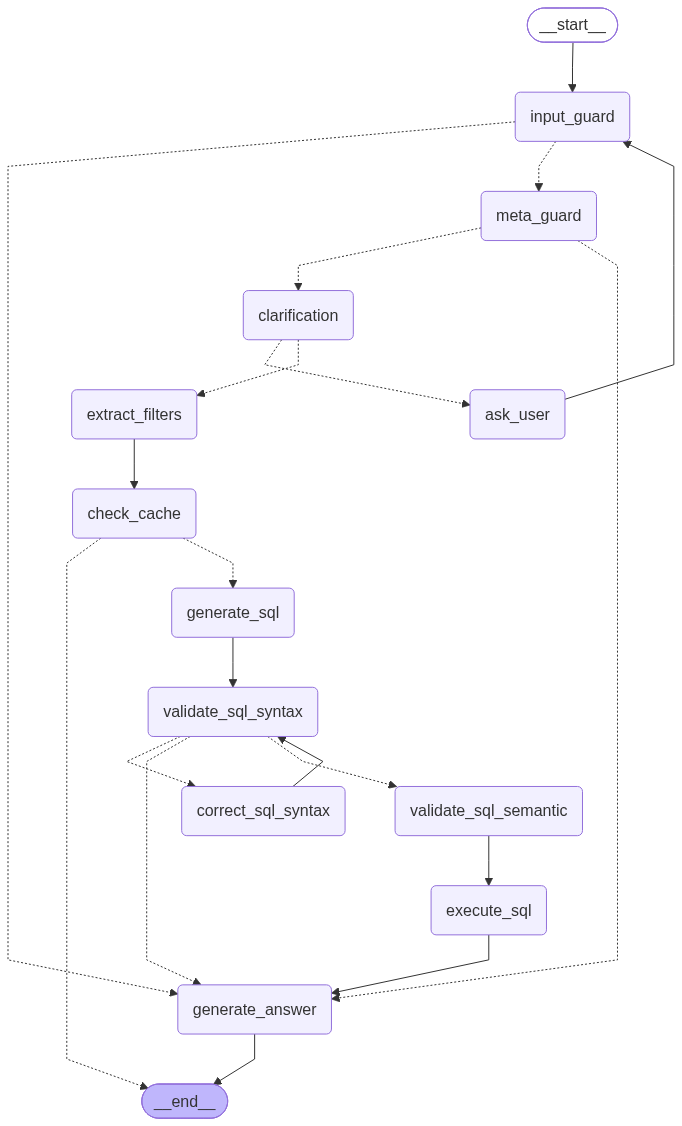
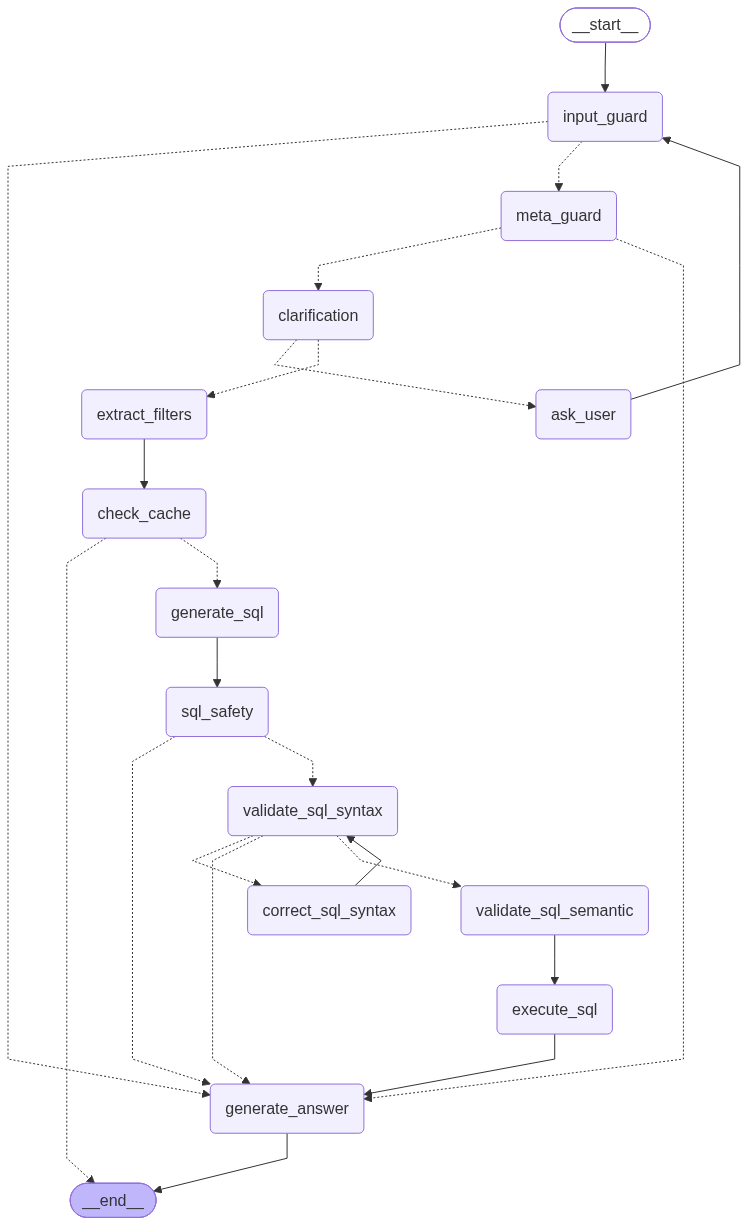
Sql Security using sqlglot

diff --git a/app/guardrails/sql_safety.py b/app/guardrails/sql_safety.py
@@ -1,0 +1,88 @@
+
+import sqlglot
+from sqlglot import exp
+
+
+FORBIDDEN_NODE_TYPES = {
+    "insert",
+    "update",
+    "delete",
+    "merge",
+    "create",
+    "drop",
+    "alter",
+    "command",
+    "copy",
+    "truncate",
+    "truncatetable",
+    "grant",
+    "revoke",
+    "set",
+    "use",
+    "transaction",
+    "commit",
+    "rollback",
+    "into",
+    "lock",
+    "call",
+    "execute",
+    "vacuum",
+    "attach",
+    "detach",
+    "pragma",
+    "analyze",
+}
+
+
+def validate_sql_safety(sql: str) -> tuple[bool, str]:
+    """
+    Check whether generated SQL follows the project's
+    basic read-only SQL rules.
+
+    Returns:
+        (True, "") if the query passes these checks.
+        (False, reason) if the query is rejected.
+    """
+
+    # 1. Reject empty SQL.
+    if not sql or not sql.strip():
+        return False, "SQL query is empty."
+
+    # 2. Parse SQL using PostgreSQL syntax.
+    try:
+        statements = [
+            statement
+            for statement in sqlglot.parse(sql, read="postgres")
+            if statement is not None
+        ]
+
+    except sqlglot.errors.ParseError as exc:
+        return False, f"SQL parsing failed: {exc}"
+
+    # 3. Allow exactly one SQL statement.
+    if len(statements) != 1:
+        return False, "Exactly one SQL statement is allowed."
+
+    statement = statements[0]
+
+    # 4. Allow only SELECT as the main statement.
+    if not isinstance(statement, exp.Select):
+        return False, "Only SELECT queries are allowed."
+
+    # 5. Inspect the entire SQL syntax tree.
+    # This includes nested queries and CTEs.
+    for node in statement.walk():
+        node_type = node.key.lower()
+        class_name = node.__class__.__name__.lower()
+
+        if (
+            node_type in FORBIDDEN_NODE_TYPES
+            or class_name in FORBIDDEN_NODE_TYPES
+        ):
+            return (
+                False,
+                f"Prohibited SQL construct detected: {class_name}",
+            )
+
+    # 6. The query passed these structural checks.
+    return True, ""

diff --git a/app/graph.py b/app/graph.py
@@ -18,6 +18,7 @@ from app.nodes.extract_filters_node import extract_query_filters
 from app.nodes.check_cache_node import check_cache_node
 from app.nodes.input_guard_node import input_guard_node
 from app.nodes.meta_guard_node import meta_guard_node
+from app.nodes.sql_safety_node import sql_safety_node
 from langgraph.checkpoint.postgres import PostgresSaver
 from psycopg_pool import ConnectionPool
 import os
@@ -38,6 +39,7 @@ graph.add_node("extract_filters", extract_query_filters)
 graph.add_node("check_cache", check_cache_node)           
 graph.add_node('generate_answer', generate_answer)
 graph.add_node('generate_sql', generate_sql)
+graph.add_node('sql_safety', sql_safety_node)
 graph.add_node('validate_sql_syntax', validate_sql_syntax)
 graph.add_node('correct_sql_syntax', correct_sql_syntax)
 graph.add_node('validate_sql_semantic', validate_sql_semantic)
@@ -88,7 +90,15 @@ graph.add_conditional_edges(
     }
 )
 
-graph.add_edge('generate_sql', 'validate_sql_syntax')
+graph.add_edge('generate_sql', 'sql_safety')
+graph.add_conditional_edges(
+    'sql_safety',
+    lambda x: 'generate_answer' if not x.sql_valid else 'validate_sql_syntax',
+    {
+        'generate_answer': 'generate_answer',
+        'validate_sql_syntax': 'validate_sql_syntax',
+    }
+)
 graph.add_conditional_edges(
     "validate_sql_syntax",
     lambda x: "generate_answer" if x.permission_denied == True else "correct_sql_syntax" if x.sql_valid == False and x.correct_sql_count < 3 else "validate_sql_semantic",

diff --git a/app/nodes/generate_answer_node.py b/app/nodes/generate_answer_node.py
@@ -16,6 +16,7 @@ def generate_answer(graph_state: state):
     is_greeting = graph_state.is_greeting
     sql_execution_error = graph_state.sql_execution_error
     permission_denied = graph_state.permission_denied
+    sql_valid = graph_state.sql_valid
 
     # 1. Greetings: return a friendly greeting immediately without an expensive/brittle LLM call
     if is_greeting:
@@ -35,7 +36,18 @@ def generate_answer(graph_state: state):
             "answer": rejection_text,
             "messages": [AIMessage(content=rejection_text)],
         }
-        
+
+    # 3. SQL blocked by the structural safety check (sqlglot): reject before execution
+    if not sql_valid:
+        sql_safety_text = (
+            "I'm sorry, but your request could not be completed. "
+            "SQL security is in charge — the generated query was flagged as unsafe and was not executed."
+        )
+        return {
+            "answer": sql_safety_text,
+            "messages": [AIMessage(content=sql_safety_text)],
+        }
+
     if permission_denied:
         permission_denied_text = "I'm sorry, but you do not have permission to execute this query."
         return {

diff --git a/app/nodes/sql_safety_node.py b/app/nodes/sql_safety_node.py
@@ -1,0 +1,16 @@
+from app.state import state
+from app.guardrails.sql_safety import validate_sql_safety
+
+
+def sql_safety_node(s: state) -> dict:
+    print("\n========== ENTERED SQL SAFETY NODE ==========")
+    """
+    Validates the generated SQL against structural / read-only safety rules
+    using sqlglot (no database round-trip required).
+    """
+    is_safe, reason = validate_sql_safety(s.sql)
+
+    return {
+        "sql_valid": is_safe,
+        "sql_valid_error": None if is_safe else reason,
+    }
